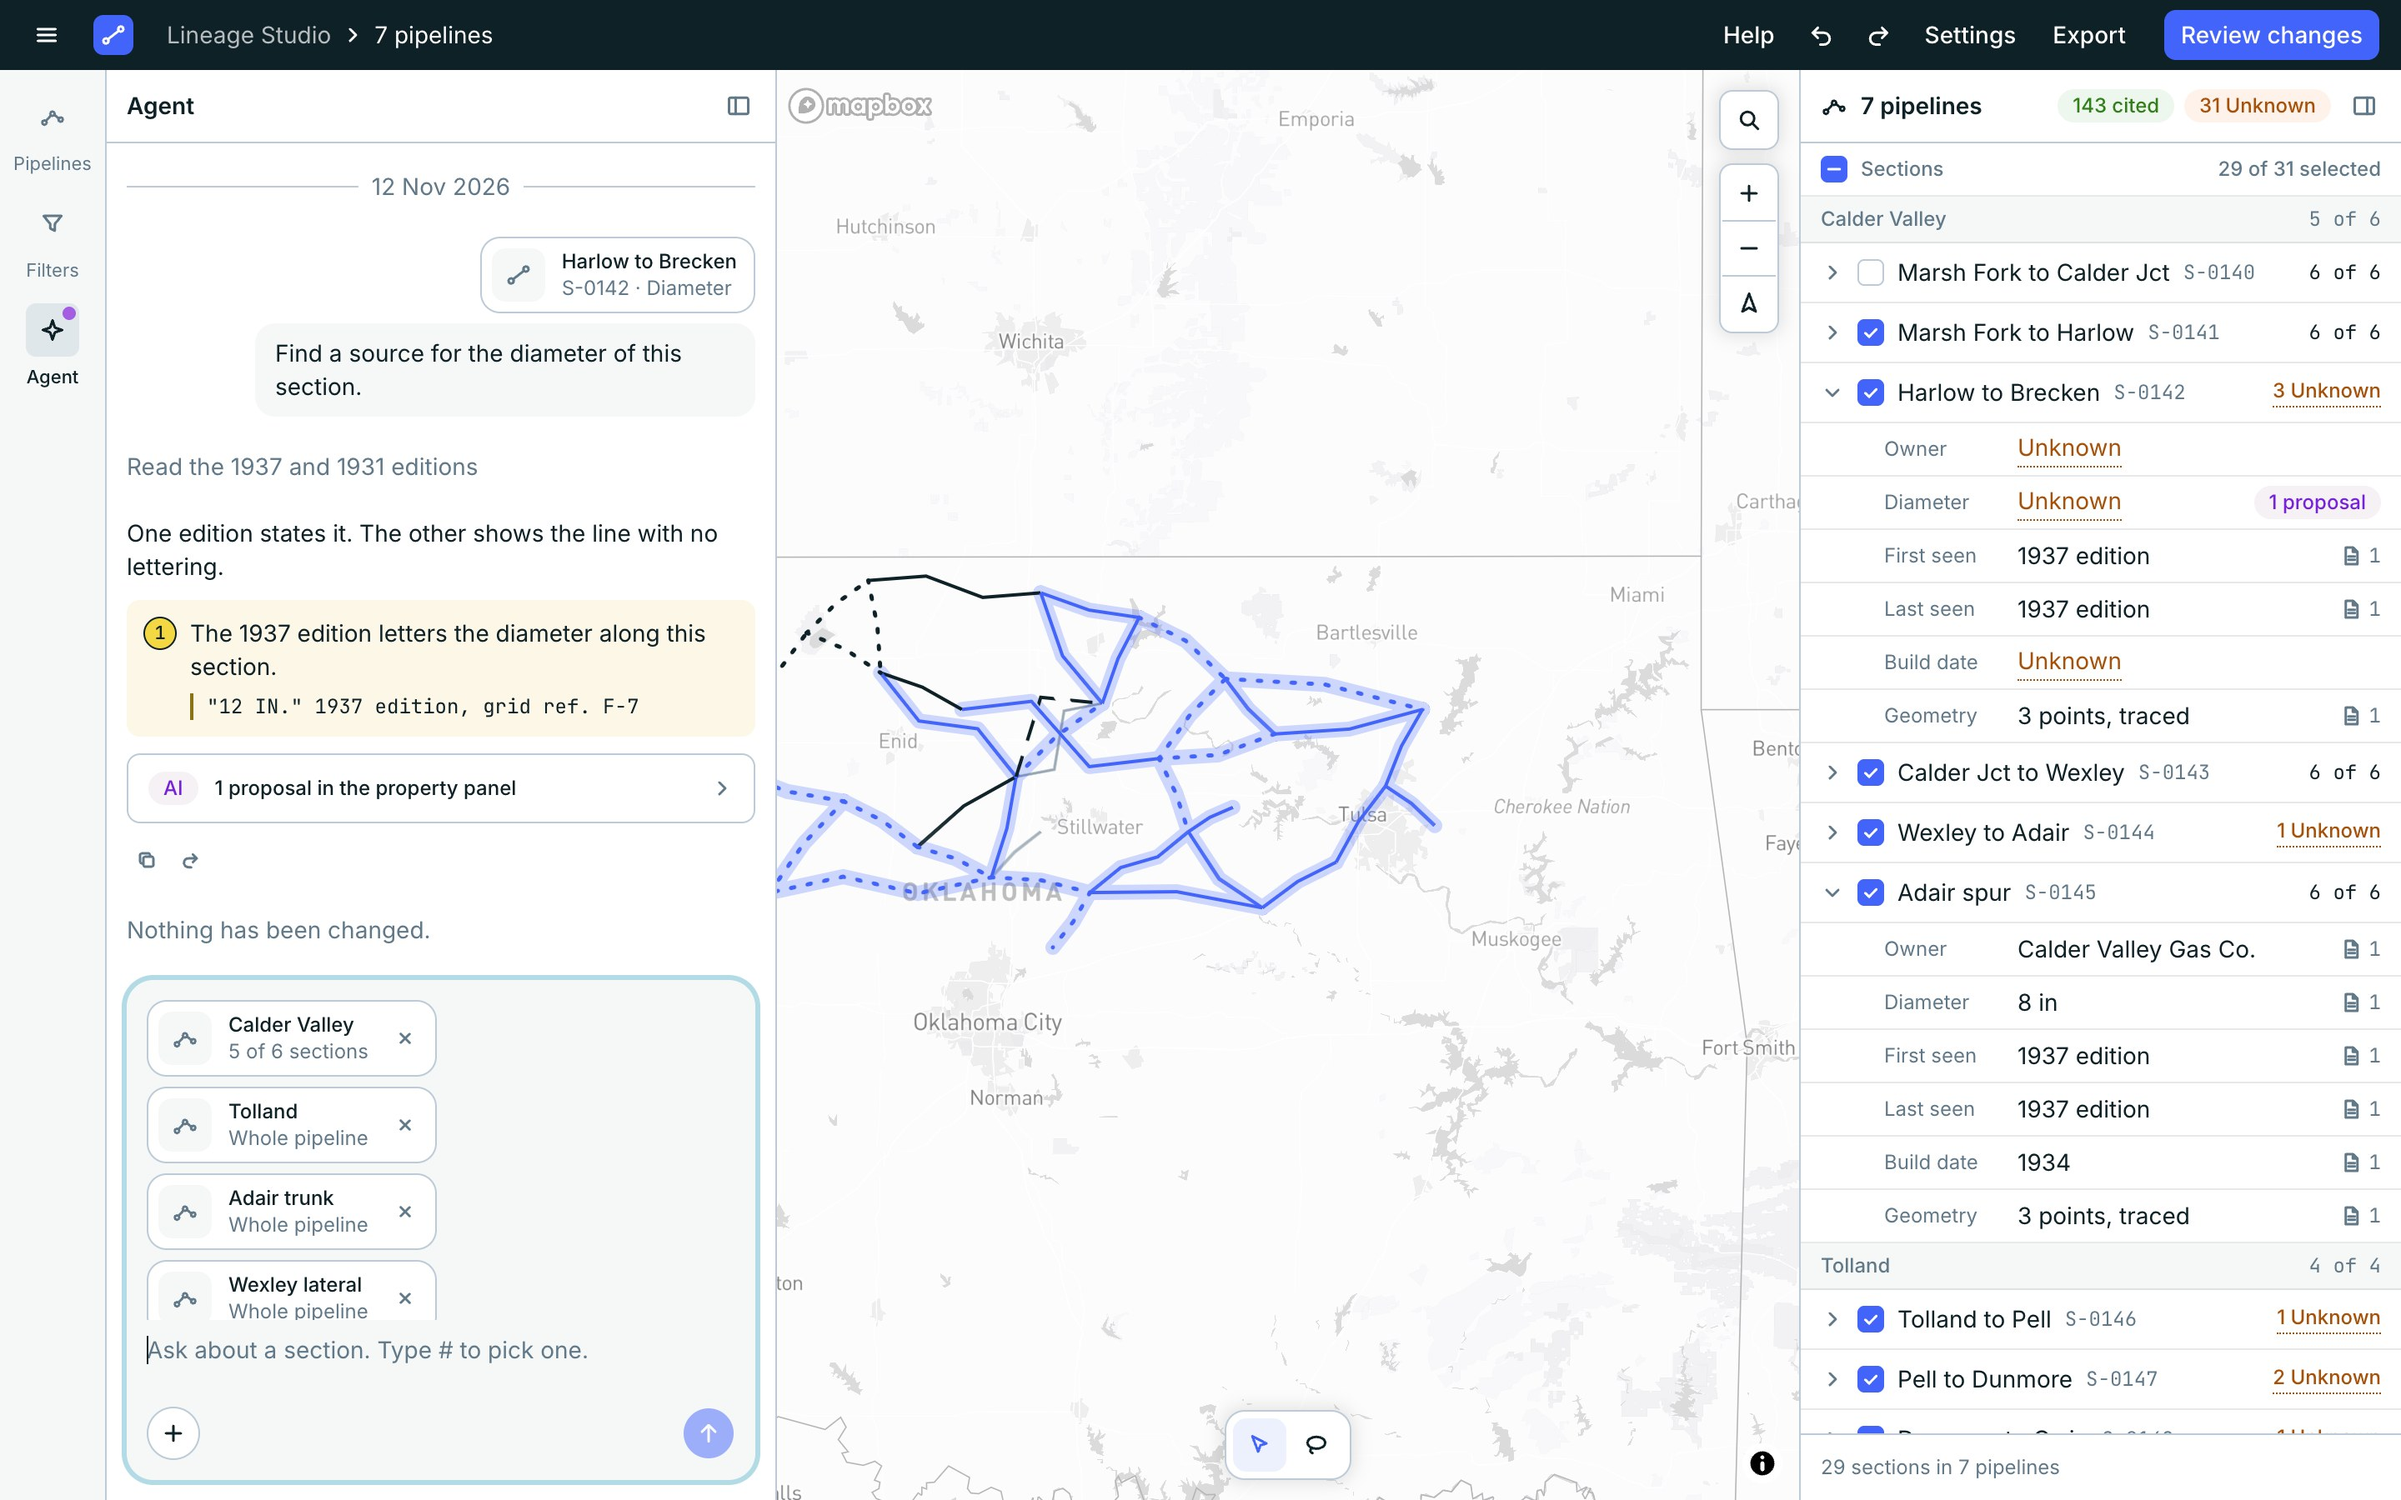
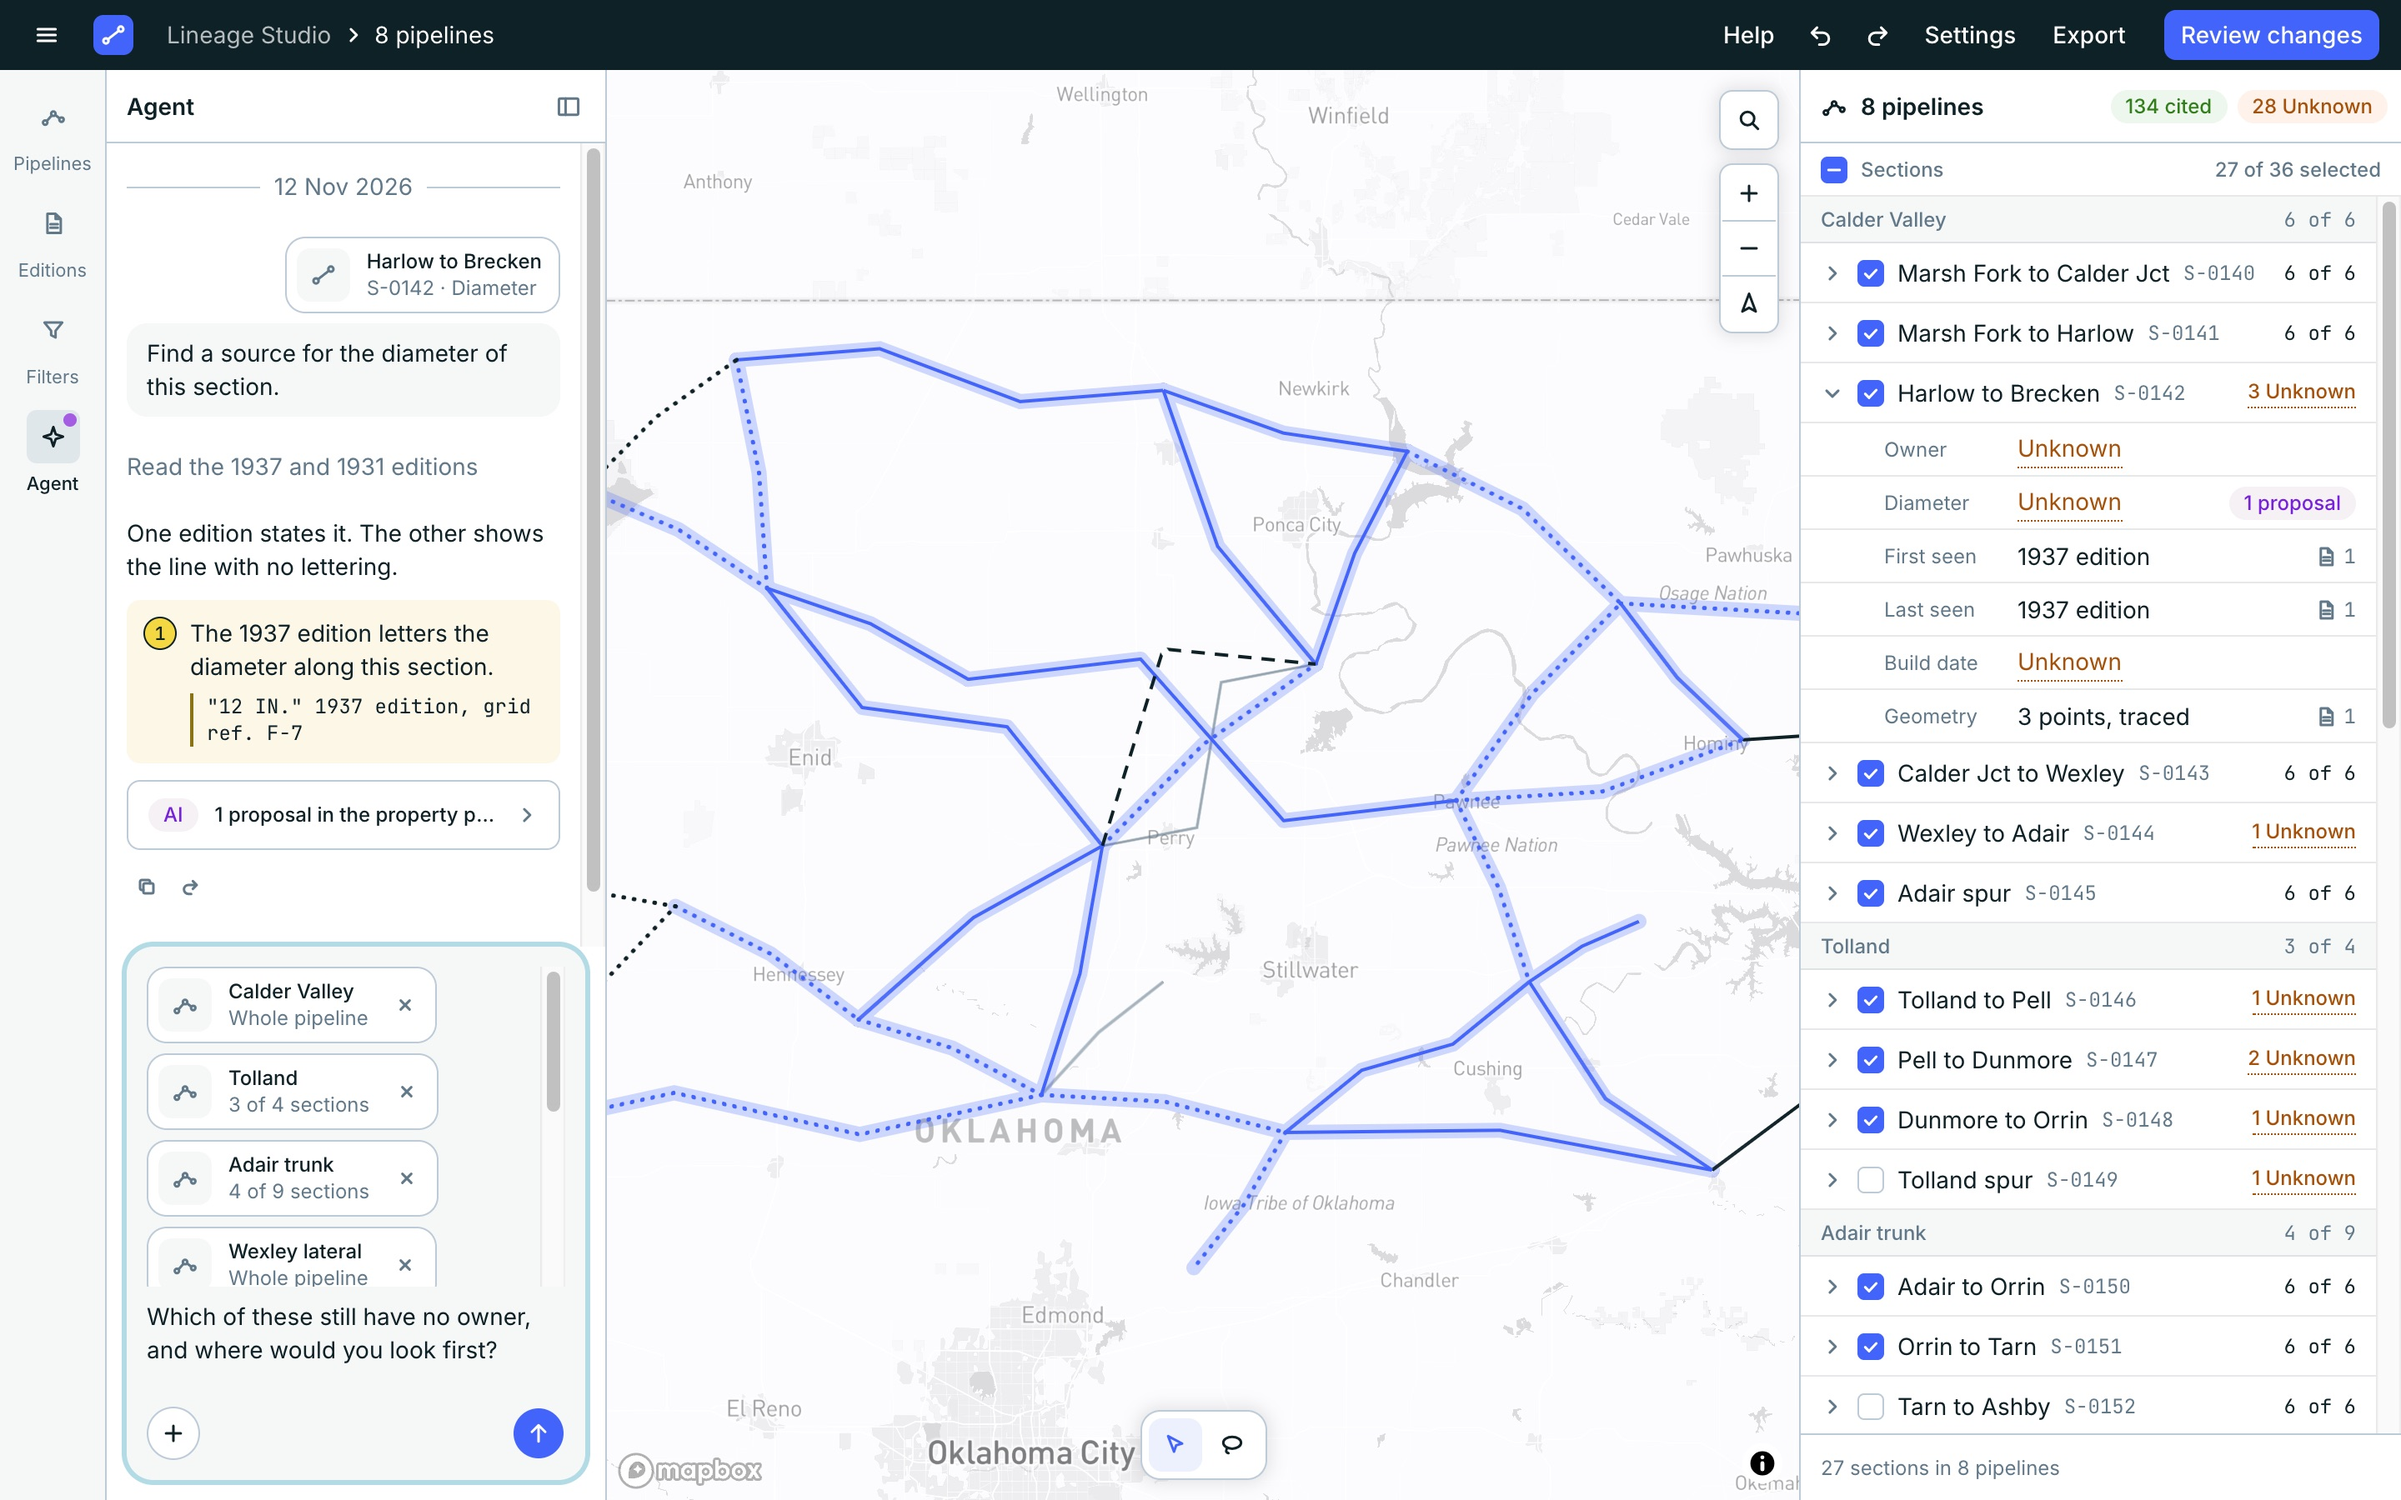
docs: retake the README screenshots; show the full map and Editions
All six are taken on the sample network. The four old images are replaced
in place; two are new: both side panels hidden, and the Editions panel.

diff --git a/README.md b/README.md
@@ -31,14 +31,14 @@ Tick pipelines in the list, click lines on the map, or draw a loop around an are
 selection can span several pipelines; the right panel lists it grouped by pipeline, with
 each section opening to its claims.
 
-<img src="docs/screenshots/multi-select.jpg" alt="Twenty-nine sections in seven pipelines selected with the lasso, listed by pipeline on the right" width="100%">
+<img src="docs/screenshots/multi-select.jpg" alt="Twenty-seven sections in eight pipelines selected with the lasso, listed by pipeline on the right" width="100%">
 
 ### Ask the Agent about what you selected
 
 Any selection made on the map offers **Ask the Agent**. It opens the chat with the
 selection attached as references, one per pipeline, and the cursor in the message box.
 
-<img src="docs/screenshots/agent.jpg" alt="The Agent panel with four pipelines attached to the message being written" width="100%">
+<img src="docs/screenshots/agent.jpg" alt="The Agent panel with the selected pipelines attached to the message being written" width="100%">
 
 ### Search and filters
 
@@ -47,6 +47,20 @@ owner is Unknown. Narrow the list and the map by company, build date, the day a 
 was added, or by which claims are Unknown.
 
 <img src="docs/screenshots/filters.jpg" alt="The Filters panel: layers, Show choices, company, build date, added date and Unknown in" width="100%">
+
+### The whole map when you want it
+
+One button in the left panel's header hides both side panels and leaves the rail. The
+same button, floating at the top left of the map, brings them back. The selection stays.
+
+<img src="docs/screenshots/full-map.jpg" alt="Both side panels hidden: the rail, the full-width map with the selection highlighted, and the button that brings the panels back" width="100%">
+
+### Editions
+
+Each map edition is listed with how many of the sections it first shows are placed in a
+pipeline. Choosing an edition shows the network as that map has it.
+
+<img src="docs/screenshots/editions.jpg" alt="The Editions panel: two editions, each with a bar for how many of its sections are in a pipeline" width="100%">
 
 ## Quick start
 
